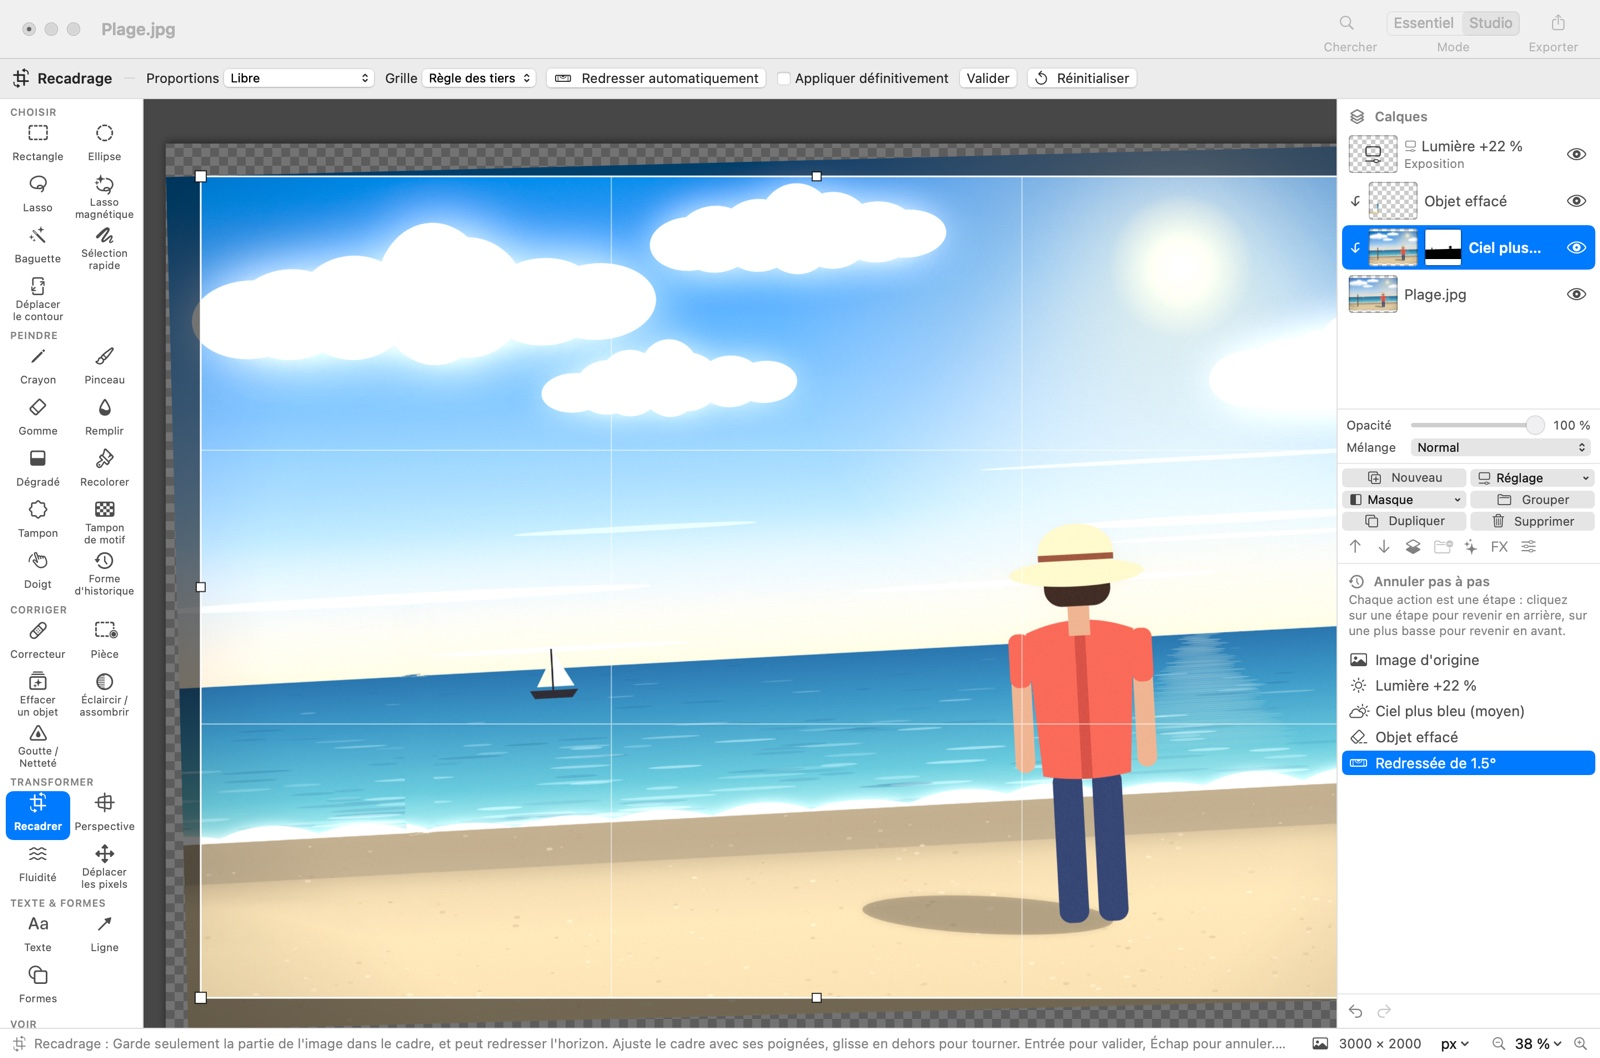
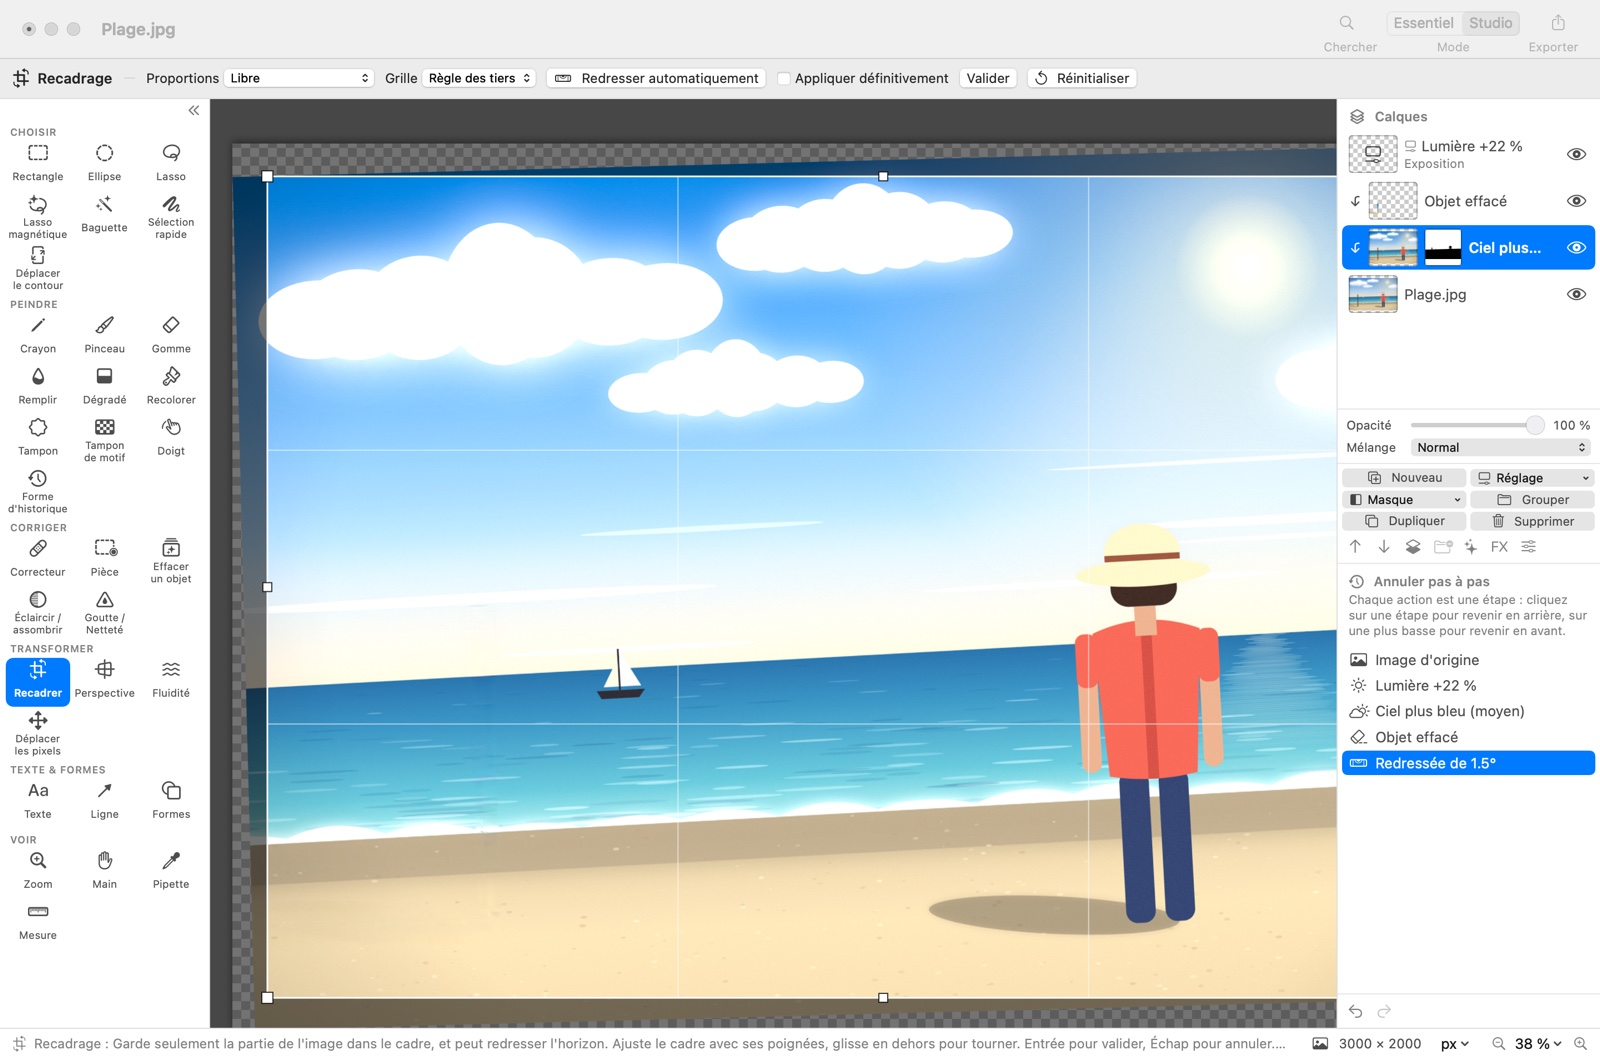
Atelier 0.3.2 : effacement neuronal, Redresser, barre d'outils

diff --git a/notes/0.3.2.fr.html b/notes/0.3.2.fr.html
@@ -1,0 +1,15 @@
+<!doctype html>
+<html lang="fr"><head><meta charset="utf-8"><title>Nouveautés d'Atelier 0.3.2</title>
+<style>
+  :root { color-scheme: light dark; }
+  body { font: 15px/1.5 -apple-system, BlinkMacSystemFont, sans-serif; margin: 14px 18px; color: #14213d; }
+  h1 { font-size: 18px; margin: 0 0 8px; }
+  ul { margin: 0; padding-left: 20px; } li { margin: 4px 0; }
+  @media (prefers-color-scheme: dark) { body { color: #e8eefc; background: transparent; } }
+</style></head>
+<body><h1>Nouveautés d'Atelier 0.3.2</h1><ul>
+  <li>Effacer un objet : un vrai moteur neuronal, en local. MI-GAN est embarqué dans l&#x27;app (rambardes, bords, poteaux : la structure continue derrière l&#x27;objet effacé) ; « Qualité maximale » télécharge LaMa (196 Mo) à la demande pour les grandes zones et les motifs répétés. Réglages → Effacement pour choisir le moteur ; « Encore » alterne les moteurs.</li>
+  <li>Redresser : l&#x27;angle se choisit toujours. Une grille apparaît sur la photo, « Automatique » propose l&#x27;angle détecté, les cartes offrent de petits écarts, et le curseur Angle va de −15° à +15° au dixième de degré.</li>
+  <li>Studio : la barre d&#x27;outils est sur trois colonnes (réglable) et se replie d&#x27;un clic sur le chevron ; une languette à gauche la rouvre (ou ⌥⌘1).</li>
+  <li>Crédits : MI-GAN (Picsart AI Research, MIT) et LaMa (Samsung AI, Apache 2.0), entraînés sur Places2 ; voir À propos.</li>
+</ul></body></html>

diff --git a/notes/0.3.2.de.html b/notes/0.3.2.de.html
@@ -1,0 +1,15 @@
+<!doctype html>
+<html lang="de"><head><meta charset="utf-8"><title>Neu in Atelier 0.3.2</title>
+<style>
+  :root { color-scheme: light dark; }
+  body { font: 15px/1.5 -apple-system, BlinkMacSystemFont, sans-serif; margin: 14px 18px; color: #14213d; }
+  h1 { font-size: 18px; margin: 0 0 8px; }
+  ul { margin: 0; padding-left: 20px; } li { margin: 4px 0; }
+  @media (prefers-color-scheme: dark) { body { color: #e8eefc; background: transparent; } }
+</style></head>
+<body><h1>Neu in Atelier 0.3.2</h1><ul>
+  <li>Objekt entfernen: eine echte neuronale Engine, lokal auf dem Mac. MI-GAN ist in der App enthalten (Geländer, Kanten, Pfosten: die Struktur läuft hinter dem entfernten Objekt weiter); „Maximale Qualität“ lädt LaMa (196 MB) bei Bedarf für große Flächen und wiederholte Muster. Einstellungen → Entfernen zur Wahl der Engine; „Noch einmal“ wechselt die Engine.</li>
+  <li>Ausrichten: Der Winkel wird immer gewählt. Ein Raster erscheint auf dem Foto, „Automatisch“ schlägt den erkannten Winkel vor, die Karten bieten kleine Abweichungen, und der Regler Winkel reicht von −15° bis +15° in Zehntelgrad.</li>
+  <li>Studio: Die Werkzeugleiste hat drei Spalten (einstellbar) und klappt mit einem Klick auf den Pfeil ein; eine Lasche links öffnet sie wieder (oder ⌥⌘1).</li>
+  <li>Danksagung: MI-GAN (Picsart AI Research, MIT) und LaMa (Samsung AI, Apache 2.0), trainiert auf Places2; siehe Über.</li>
+</ul></body></html>

diff --git a/notes/0.3.2.es.html b/notes/0.3.2.es.html
@@ -1,0 +1,15 @@
+<!doctype html>
+<html lang="es"><head><meta charset="utf-8"><title>Novedades de Atelier 0.3.2</title>
+<style>
+  :root { color-scheme: light dark; }
+  body { font: 15px/1.5 -apple-system, BlinkMacSystemFont, sans-serif; margin: 14px 18px; color: #14213d; }
+  h1 { font-size: 18px; margin: 0 0 8px; }
+  ul { margin: 0; padding-left: 20px; } li { margin: 4px 0; }
+  @media (prefers-color-scheme: dark) { body { color: #e8eefc; background: transparent; } }
+</style></head>
+<body><h1>Novedades de Atelier 0.3.2</h1><ul>
+  <li>Borrar un objeto: un auténtico motor neuronal, en tu Mac. MI-GAN va integrado en la app (barandillas, bordes, postes: la estructura continúa detrás del objeto borrado); «Calidad máxima» descarga LaMa (196 MB) bajo demanda para zonas grandes y motivos repetidos. Ajustes → Borrar para elegir el motor; «Otra vez» alterna los motores.</li>
+  <li>Enderezar: el ángulo siempre se elige. Aparece una cuadrícula sobre la foto, «Automático» propone el ángulo detectado, las tarjetas ofrecen pequeños ajustes y el control Ángulo va de −15° a +15° en décimas de grado.</li>
+  <li>Estudio: la barra de herramientas tiene tres columnas (ajustable) y se pliega con un clic en el chevrón; una pestaña a la izquierda la vuelve a abrir (o ⌥⌘1).</li>
+  <li>Créditos: MI-GAN (Picsart AI Research, MIT) y LaMa (Samsung AI, Apache 2.0), entrenados con Places2; ver Acerca de.</li>
+</ul></body></html>

diff --git a/notes/0.3.2.it.html b/notes/0.3.2.it.html
@@ -1,0 +1,15 @@
+<!doctype html>
+<html lang="it"><head><meta charset="utf-8"><title>Novità di Atelier 0.3.2</title>
+<style>
+  :root { color-scheme: light dark; }
+  body { font: 15px/1.5 -apple-system, BlinkMacSystemFont, sans-serif; margin: 14px 18px; color: #14213d; }
+  h1 { font-size: 18px; margin: 0 0 8px; }
+  ul { margin: 0; padding-left: 20px; } li { margin: 4px 0; }
+  @media (prefers-color-scheme: dark) { body { color: #e8eefc; background: transparent; } }
+</style></head>
+<body><h1>Novità di Atelier 0.3.2</h1><ul>
+  <li>Cancellare un oggetto: un vero motore neurale, sul tuo Mac. MI-GAN è integrato nell&#x27;app (ringhiere, bordi, pali: la struttura continua dietro l&#x27;oggetto cancellato); «Qualità massima» scarica LaMa (196 MB) su richiesta per le aree grandi e i motivi ripetuti. Impostazioni → Cancella per scegliere il motore; «Ancora» alterna i motori.</li>
+  <li>Raddrizza: l&#x27;angolo si sceglie sempre. Sulla foto compare una griglia, «Automatico» propone l&#x27;angolo rilevato, le schede offrono piccoli scostamenti e il cursore Angolo va da −15° a +15° al decimo di grado.</li>
+  <li>Studio: la barra degli strumenti è su tre colonne (regolabile) e si comprime con un clic sulla freccia; una linguetta a sinistra la riapre (o ⌥⌘1).</li>
+  <li>Crediti: MI-GAN (Picsart AI Research, MIT) e LaMa (Samsung AI, Apache 2.0), addestrati su Places2; vedi Informazioni.</li>
+</ul></body></html>

diff --git a/notes/0.3.2.pt.html b/notes/0.3.2.pt.html
@@ -1,0 +1,15 @@
+<!doctype html>
+<html lang="pt"><head><meta charset="utf-8"><title>Novidades do Atelier 0.3.2</title>
+<style>
+  :root { color-scheme: light dark; }
+  body { font: 15px/1.5 -apple-system, BlinkMacSystemFont, sans-serif; margin: 14px 18px; color: #14213d; }
+  h1 { font-size: 18px; margin: 0 0 8px; }
+  ul { margin: 0; padding-left: 20px; } li { margin: 4px 0; }
+  @media (prefers-color-scheme: dark) { body { color: #e8eefc; background: transparent; } }
+</style></head>
+<body><h1>Novidades do Atelier 0.3.2</h1><ul>
+  <li>Apagar um objeto: um verdadeiro motor neuronal, no teu Mac. O MI-GAN vem incluído na app (corrimões, bordas, postes: a estrutura continua atrás do objeto apagado); «Qualidade máxima» descarrega o LaMa (196 MB) a pedido para zonas grandes e padrões repetidos. Definições → Apagar para escolher o motor; «Outra vez» alterna os motores.</li>
+  <li>Endireitar: o ângulo escolhe-se sempre. Aparece uma grelha sobre a foto, «Automático» propõe o ângulo detetado, os cartões oferecem pequenos desvios e o cursor Ângulo vai de −15° a +15° à décima de grau.</li>
+  <li>Estúdio: a barra de ferramentas tem três colunas (ajustável) e recolhe-se com um clique na seta; uma aba à esquerda volta a abri-la (ou ⌥⌘1).</li>
+  <li>Créditos: MI-GAN (Picsart AI Research, MIT) e LaMa (Samsung AI, Apache 2.0), treinados com Places2; ver Acerca.</li>
+</ul></body></html>

diff --git a/notes/0.3.2.nl.html b/notes/0.3.2.nl.html
@@ -1,0 +1,15 @@
+<!doctype html>
+<html lang="nl"><head><meta charset="utf-8"><title>Nieuw in Atelier 0.3.2</title>
+<style>
+  :root { color-scheme: light dark; }
+  body { font: 15px/1.5 -apple-system, BlinkMacSystemFont, sans-serif; margin: 14px 18px; color: #14213d; }
+  h1 { font-size: 18px; margin: 0 0 8px; }
+  ul { margin: 0; padding-left: 20px; } li { margin: 4px 0; }
+  @media (prefers-color-scheme: dark) { body { color: #e8eefc; background: transparent; } }
+</style></head>
+<body><h1>Nieuw in Atelier 0.3.2</h1><ul>
+  <li>Een object wissen: een echte neurale motor, op je Mac. MI-GAN zit in de app (leuningen, randen, palen: de structuur loopt door achter het gewiste object); ‘Maximale kwaliteit’ downloadt LaMa (196 MB) op verzoek voor grote vlakken en herhaalde patronen. Instellingen → Wissen om de motor te kiezen; ‘Nog eens’ wisselt van motor.</li>
+  <li>Rechtzetten: je kiest altijd de hoek. Er verschijnt een raster op de foto, ‘Automatisch’ stelt de gevonden hoek voor, de kaarten bieden kleine verschuivingen en de schuifknop Hoek loopt van −15° tot +15° in tienden van graden.</li>
+  <li>Studio: de gereedschapsbalk heeft drie kolommen (instelbaar) en klapt in met één klik op de pijl; een lipje links opent hem weer (of ⌥⌘1).</li>
+  <li>Credits: MI-GAN (Picsart AI Research, MIT) en LaMa (Samsung AI, Apache 2.0), getraind op Places2; zie Over.</li>
+</ul></body></html>

diff --git a/notes/0.3.2.en.html b/notes/0.3.2.en.html
@@ -1,0 +1,15 @@
+<!doctype html>
+<html lang="en"><head><meta charset="utf-8"><title>What's new in Atelier 0.3.2</title>
+<style>
+  :root { color-scheme: light dark; }
+  body { font: 15px/1.5 -apple-system, BlinkMacSystemFont, sans-serif; margin: 14px 18px; color: #14213d; }
+  h1 { font-size: 18px; margin: 0 0 8px; }
+  ul { margin: 0; padding-left: 20px; } li { margin: 4px 0; }
+  @media (prefers-color-scheme: dark) { body { color: #e8eefc; background: transparent; } }
+</style></head>
+<body><h1>What's new in Atelier 0.3.2</h1><ul>
+  <li>Erase an object: a real neural engine, on your Mac. MI-GAN ships inside the app (railings, edges, poles: the structure continues behind the erased object); “Maximum quality” downloads LaMa (196 MB) on demand for large areas and repeated patterns. Settings → Erase to choose the engine; “Again” alternates engines.</li>
+  <li>Straighten: you always choose the angle. A grid appears on the photo, “Automatic” offers the detected angle, the cards offer small offsets, and the Angle slider runs from −15° to +15° in tenths of a degree.</li>
+  <li>Studio: the toolbar has three columns (adjustable) and collapses with one click on the chevron; a tab on the left reopens it (or ⌥⌘1).</li>
+  <li>Credits: MI-GAN (Picsart AI Research, MIT) and LaMa (Samsung AI, Apache 2.0), trained on Places2; see About.</li>
+</ul></body></html>
